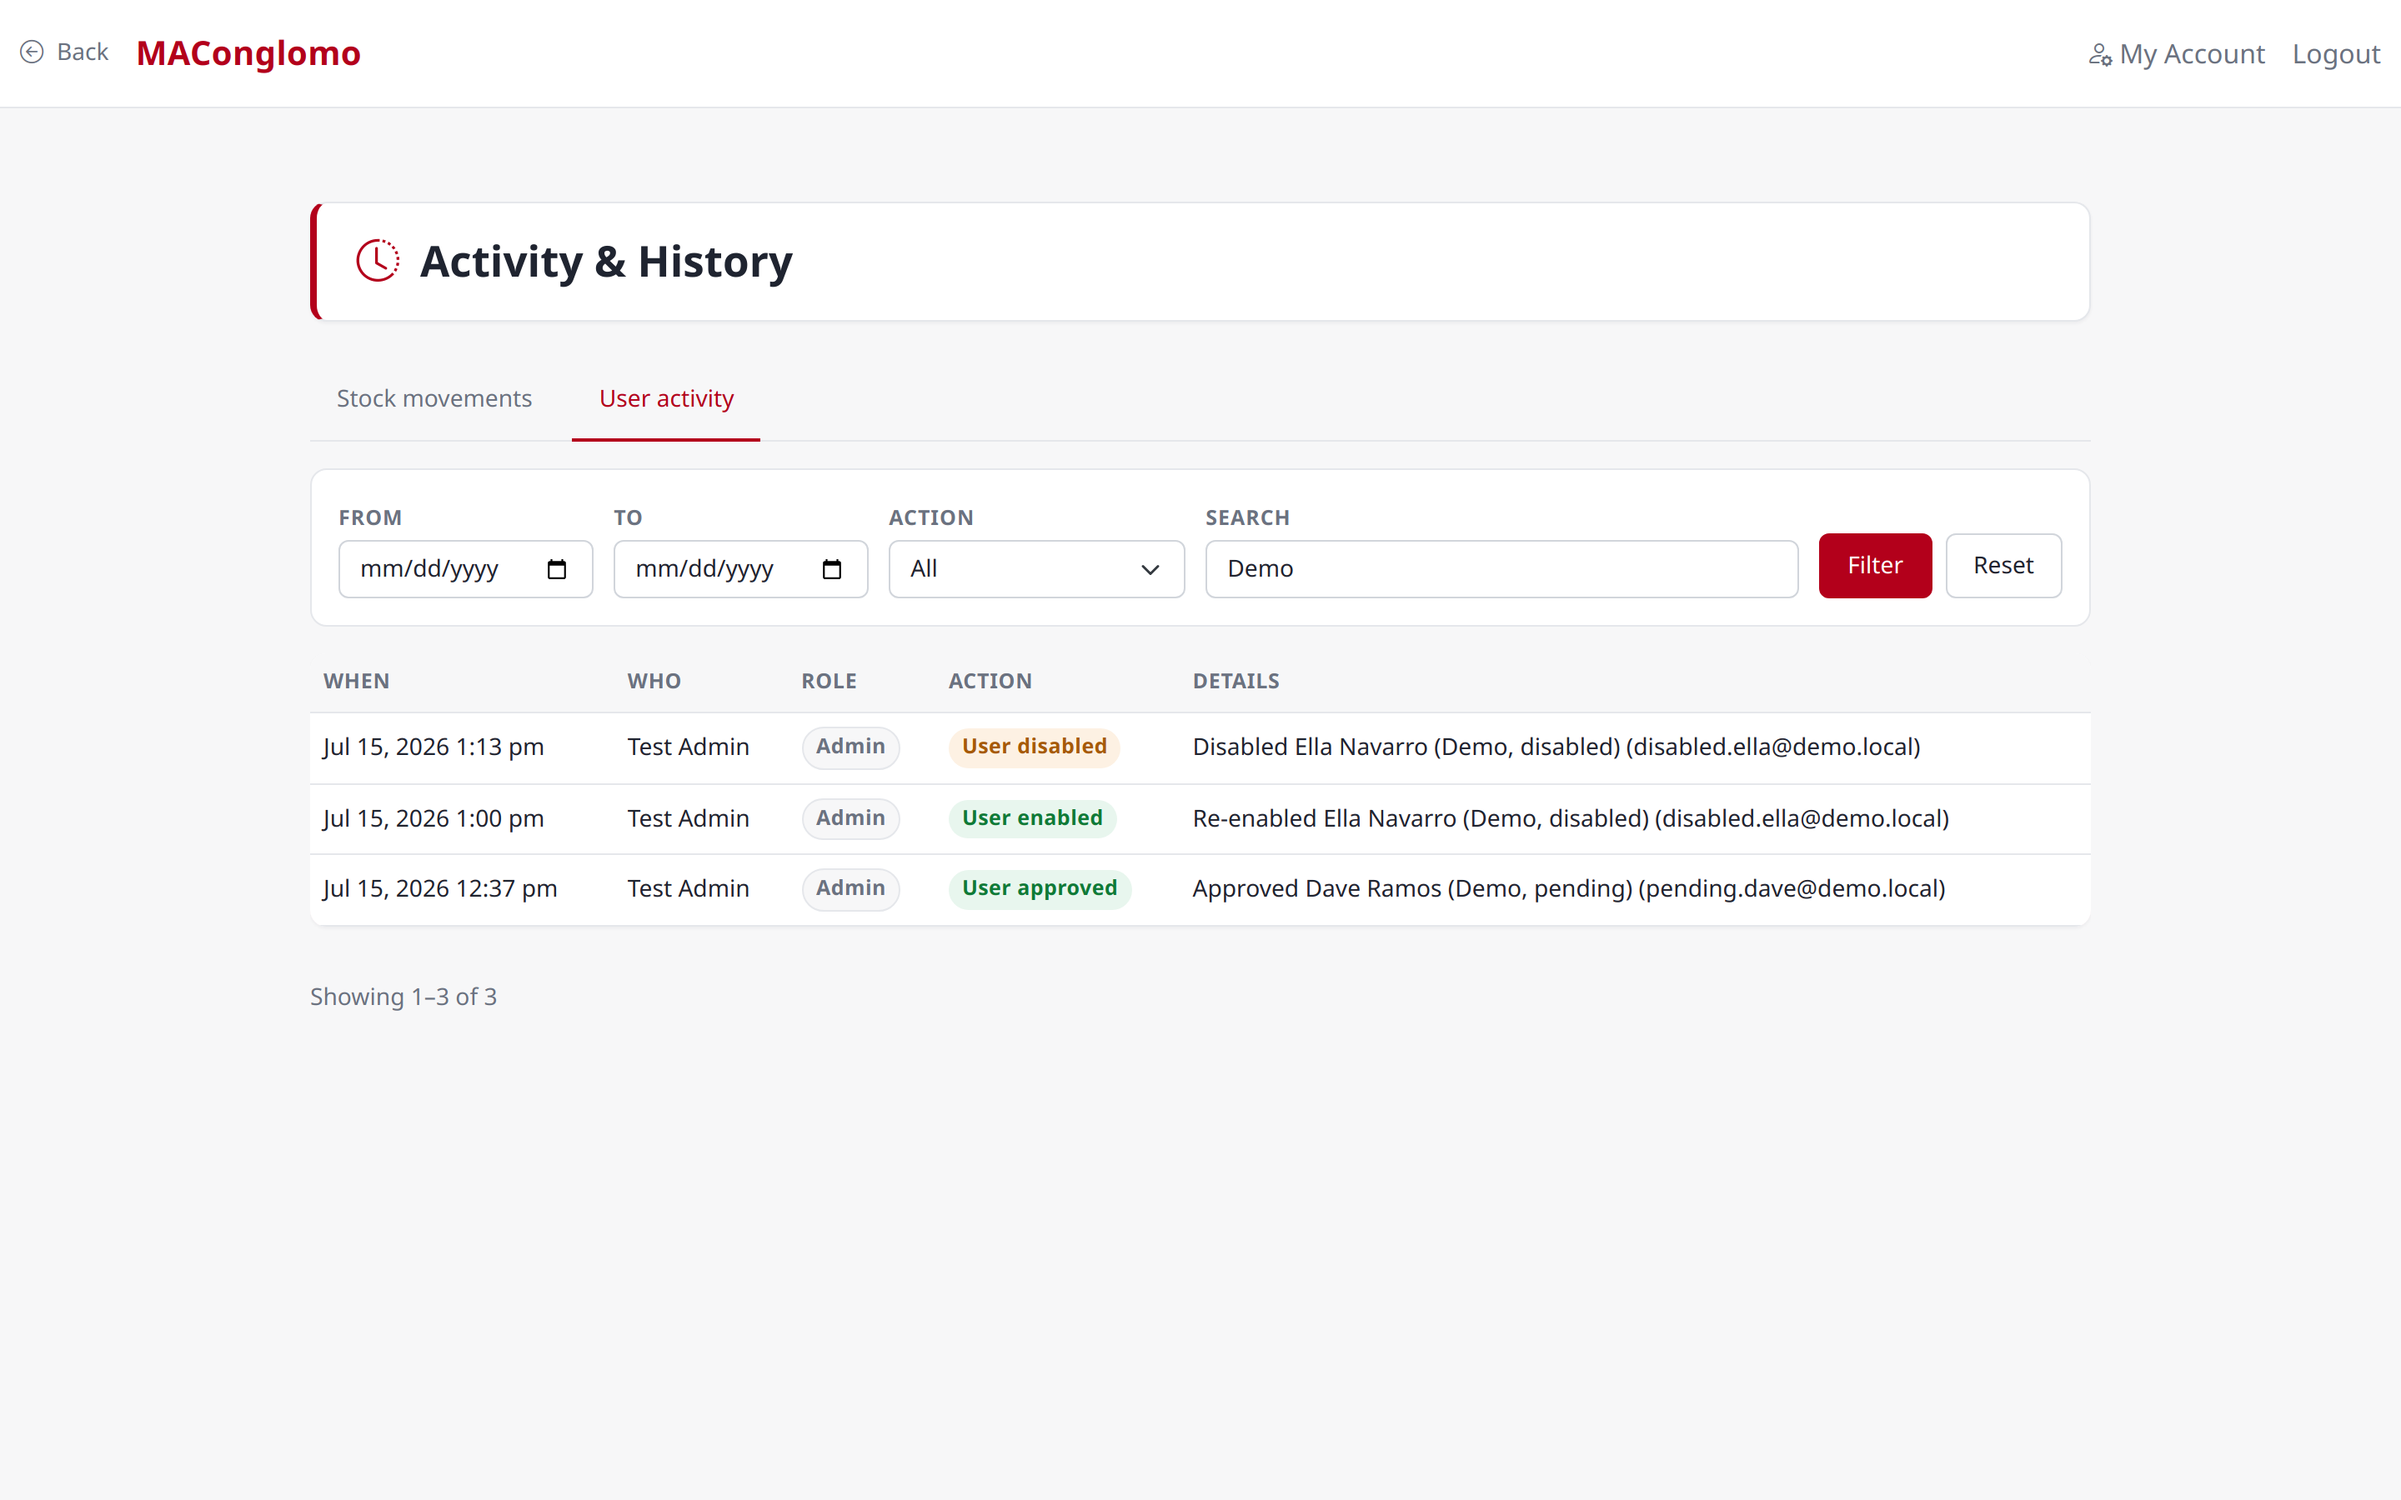
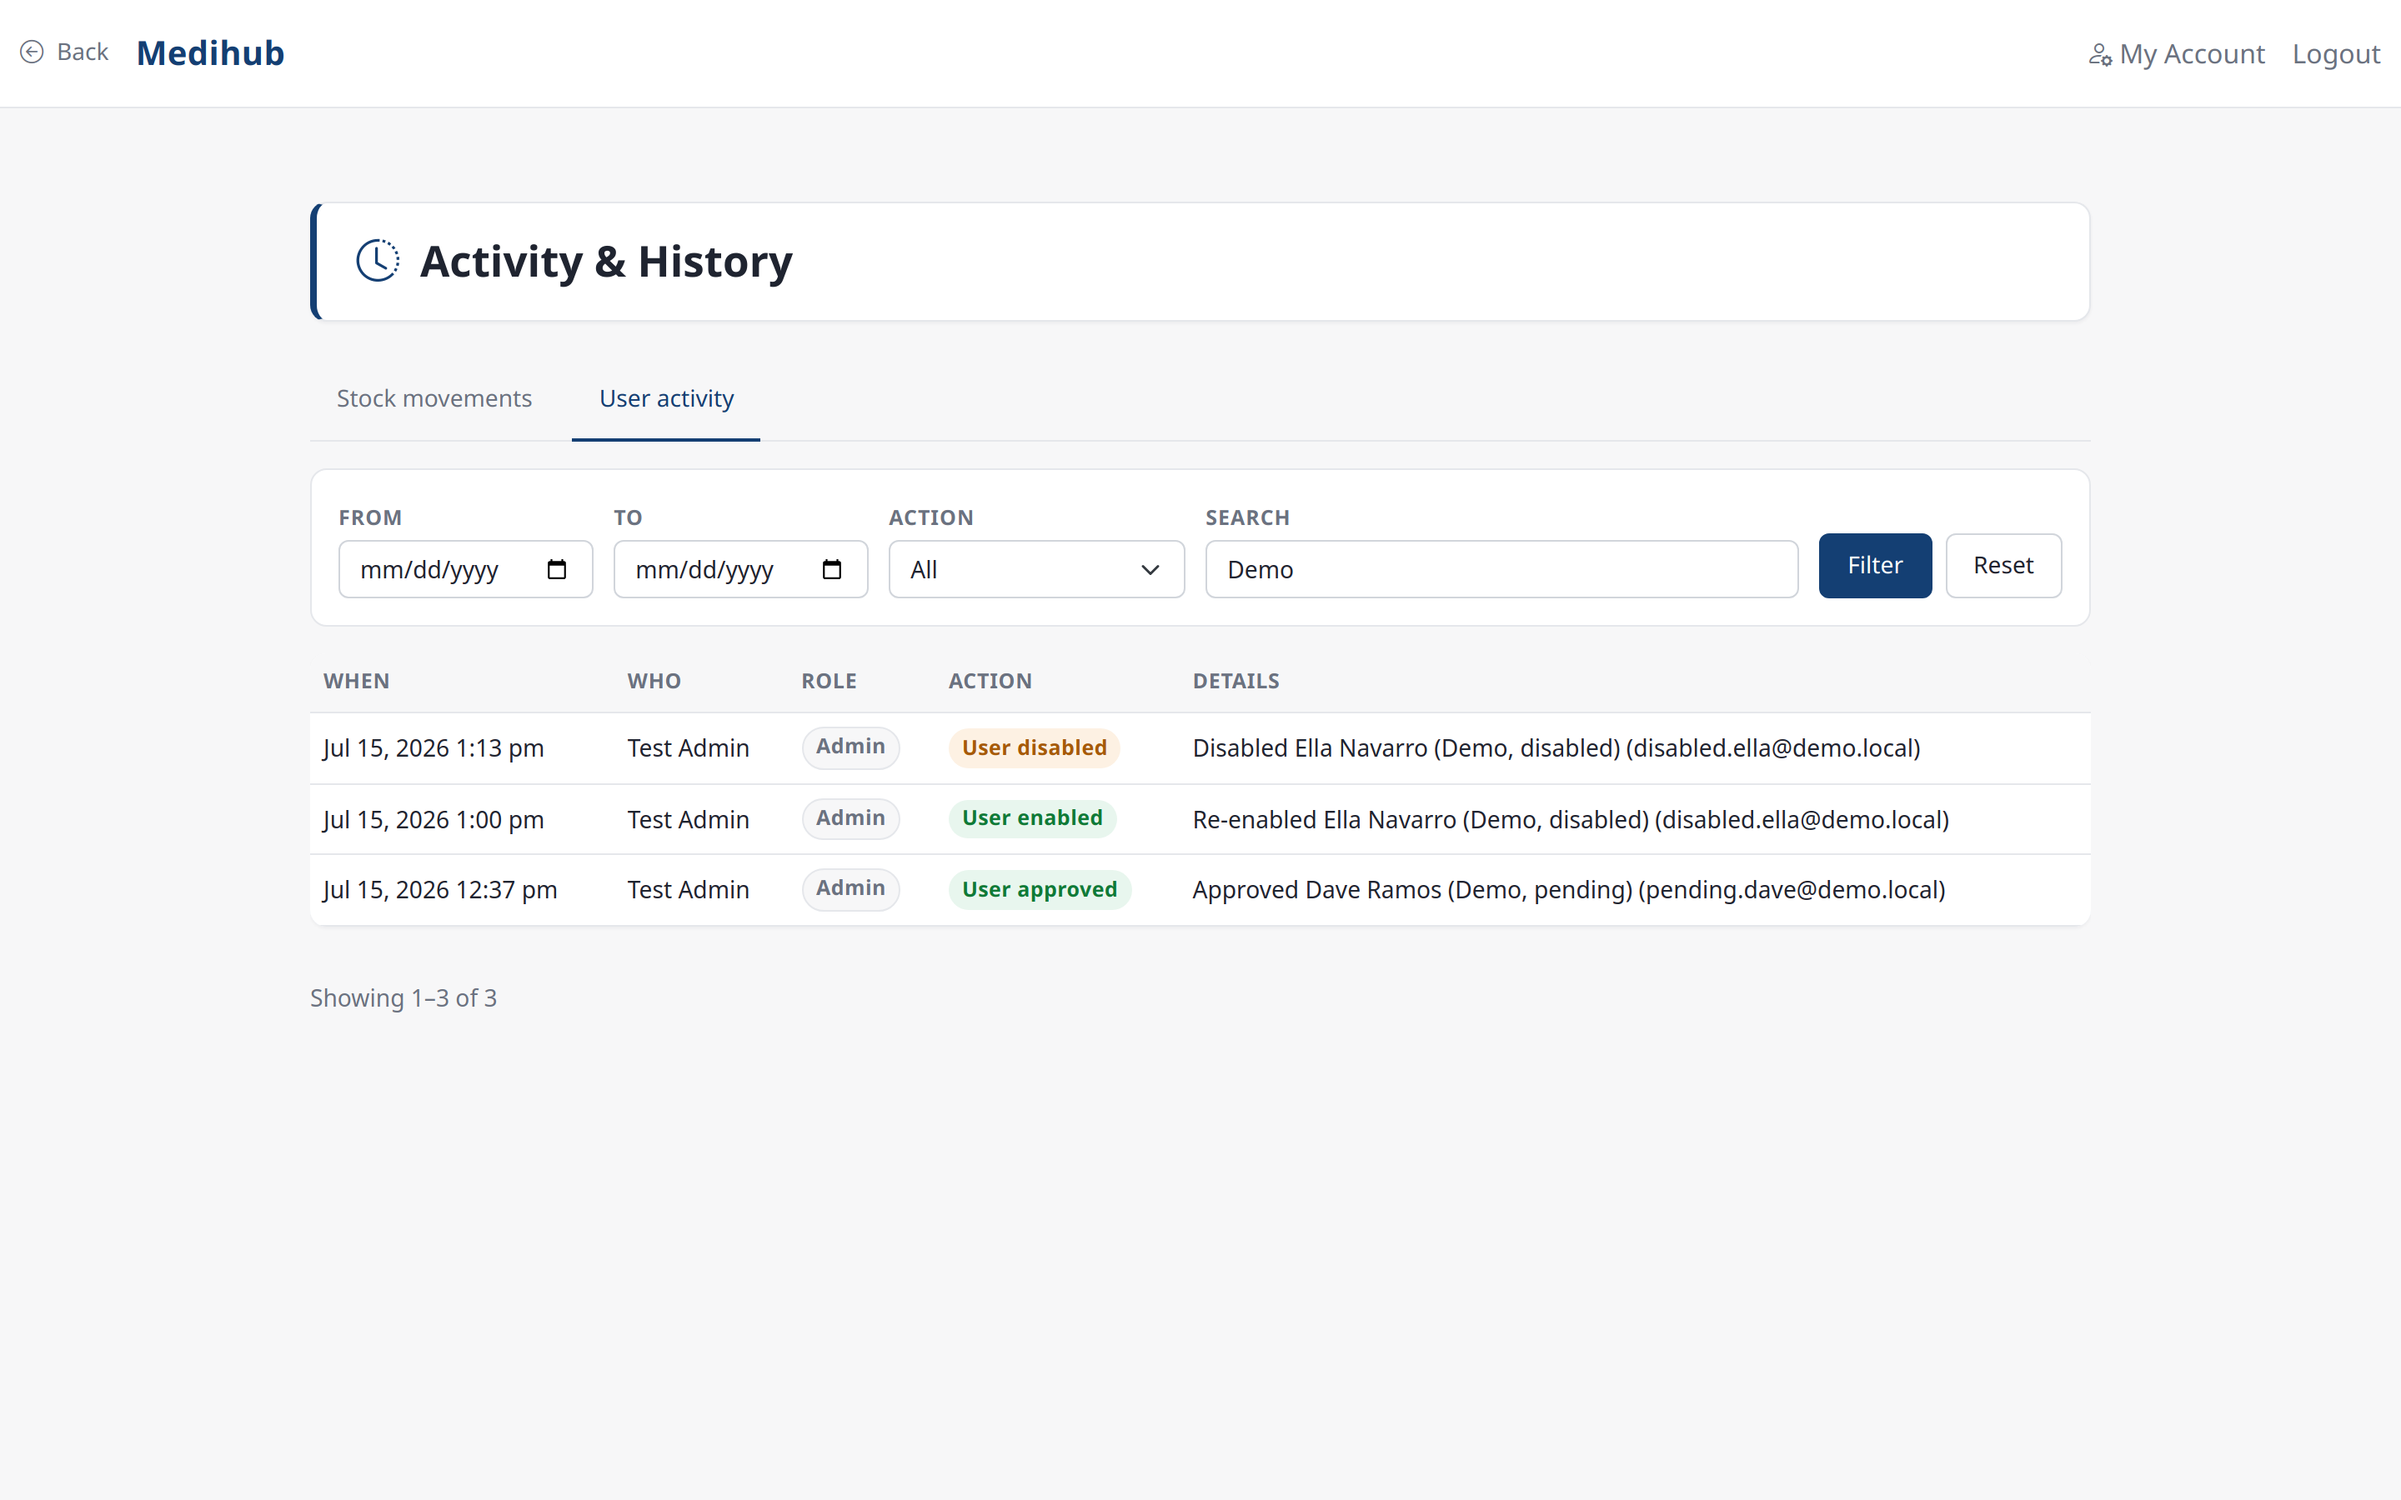
Add Medihub branding and a navy palette
- Medihub logo (light + dark variants) built around a pulse mark
- Brand hue navy #143f73; danger keeps its own red, info moves to teal
- All 12 screenshots captured against the current build
- Design System section documents the navy palette and why danger/info split

diff --git a/README.md b/README.md
@@ -1,16 +1,18 @@
 <!--
-  Showcase README for MAConglomo Hub.
+  Showcase README for Medihub.
   This repo is documentation only — the application source code is private.
+  "Medihub" is a neutral product identity used for this public write-up; the
+  deployed instance carries the client's own name and branding.
 -->
 
 <p align="center">
   <picture>
     <source media="(prefers-color-scheme: dark)" srcset="assets/logo-dark.png">
-    <img src="assets/logo.png" alt="MA Conglomo Med Corp" width="260">
+    <img src="assets/logo.png" alt="Medihub" width="300">
   </picture>
 </p>
 
-<h1 align="center">MAConglomo Hub</h1>
+<h1 align="center">Medihub</h1>
 
 <p align="center">
   <em>An internal management system for a medical distribution company —<br>
@@ -22,7 +24,7 @@
   <img alt="MySQL" src="https://img.shields.io/badge/MySQL-8.x-4479A1?logo=mysql&logoColor=white">
   <img alt="PDO" src="https://img.shields.io/badge/PDO-prepared%20statements-4479A1">
   <img alt="Bootstrap" src="https://img.shields.io/badge/Bootstrap-5.3-7952B3?logo=bootstrap&logoColor=white">
-  <img alt="dompdf" src="https://img.shields.io/badge/PDF-dompdf-b3001b">
+  <img alt="dompdf" src="https://img.shields.io/badge/PDF-dompdf-143f73">
   <img alt="No framework" src="https://img.shields.io/badge/framework-none-6c757d">
   <img alt="Status" src="https://img.shields.io/badge/status-live-1a7f37">
 </p>
@@ -31,7 +33,7 @@
 
 ## 📖 Overview
 
-**MAConglomo Hub** is the internal back-office system for a medical distribution
+**Medihub** is the internal back-office system for a medical distribution
 company. It replaces spreadsheet-and-paper workflows with one role-aware web app
 covering the two halves of the business: what is **in the warehouse**, and what
 the **field team** is doing.
@@ -171,11 +173,19 @@ Every page renders through one shared layout shell.
 
 | Token | Value |
 |---|---|
-| Primary (brand red) | `#b3001b` |
+| Primary (brand navy) | `#143f73` |
+| Success / Warning / Danger | `#16a34a` / `#d97706` / `#dc2626` |
+| Info | `#0e7490` |
 | Surface / background | `#ffffff` / light neutral |
 | Type stack | `Inter`, falling back to the OS system font |
 | Spacing scale | 4px base, `--space-1` … `--space-8` |
 | Radii | `6px` / `10px` / `14px` |
+
+Because the brand hue is navy, it cannot double as the error color, so **danger
+owns its own red** and destructive controls stay unmistakably red no matter what
+the brand does. **Info sits on teal rather than blue** for the same reason — a
+blue "info" next to a navy brand reads as the same signal twice. Status is never
+carried by color alone; every pill and badge carries a text label.
 
 Intentionally **light-theme only**, flat, and corporate — the visual language of
 an internal tool that people use all day, not a marketing site.
@@ -184,8 +194,14 @@ an internal tool that people use all day, not a marketing site.
 
 ## 🚀 Status
 
-Deployed and in production on the client's shared hosting. The live instance is
-an internal system behind a login wall and is not linked publicly.
+Deployed and live on the client's shared hosting. The live instance is an
+internal system behind a login wall and is not linked publicly.
+
+**A note on the name.** *Medihub* is a neutral product identity created for this
+public write-up — the name, logo, and navy palette above exist so the client's
+own company name and branding stay off a public portfolio page. Everything else
+you see is the real system: the same screens, the same data model, the same
+code. The deployed instance runs under the client's identity.
 
 ---
 
